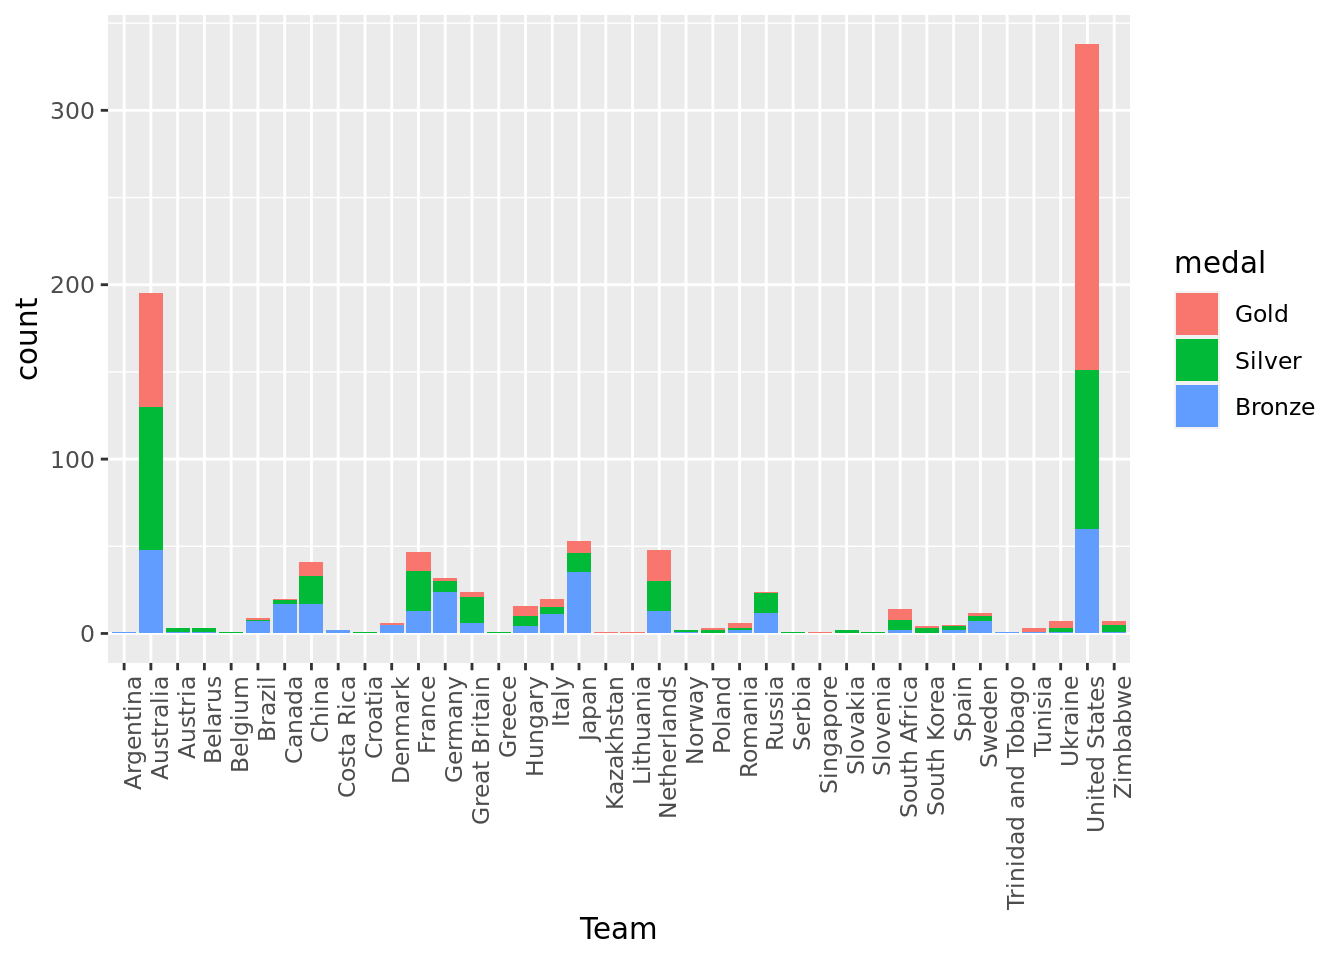
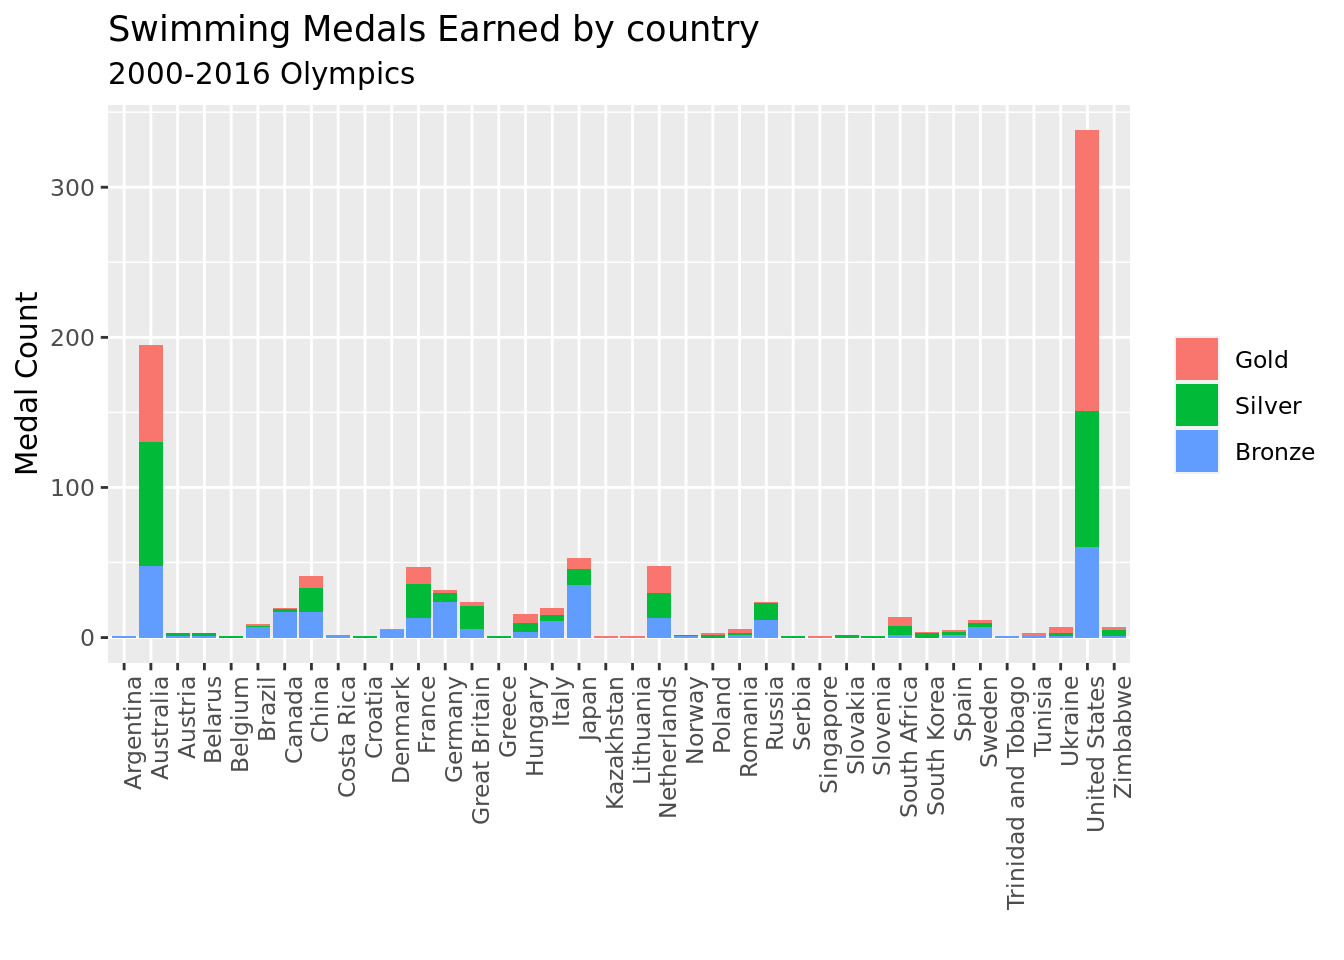
draft one done

diff --git a/docs/report.html b/docs/report.html
@@ -196,7 +196,7 @@ code span.wa { color: #60a0b0; font-weight: bold; font-style: italic; } /* Warni
 
 <section id="introduction" class="level1">
 <h1>Introduction</h1>
-<p>Throughout our project, we want to explore the correlation between athletes’ traits and performance in swimming. We aim to define which traits—particularly nationality, sex, weight, and height—influence athletes’ performance. We seek to answer the question: which trait ultimately affects Olympic swimmers the most? This question involves categorical variables such as event, country, sex, and medal, as well as quantitative variables such as height and weight. We hypothesize that height and nationality will impact Olympic swimmers the most.</p>
+<p>Throughout our project, we want to explore the correlation between Olympic athletes’ traits and performance in swimming. We aim to define which traits—particularly nationality, sex, weight, and height—influence athletes’ performance. We seek to answer the question: which trait ultimately affects Olympic swimmers the most? This question involves categorical variables such as event, country, sex, and medal, as well as quantitative variables such as height and weight. We hypothesize that height and nationality will impact Olympic swimmers the most.</p>
 </section>
 <section id="research-question-data" class="level1">
 <h1>Research question &amp; Data</h1>
@@ -232,7 +232,7 @@ code span.wa { color: #60a0b0; font-weight: bold; font-style: italic; } /* Warni
 </section>
 <section id="methodology" class="level1">
 <h1>Methodology</h1>
-<p>The differences between swimmers are best shown through data visualization. The data was filtered to show only results from the 2000 Summer games and the years since, to make it more applicable to modern games. The relationship between national origin and medal results was shown in two ways: a first plot shows how many swimming medals of each kind had gone to each country, while the second plot shows the proportion of competitors from the top seven countries</p>
+<p>The differences between swimmers are best shown through data visualization. The data was filtered to show only results from the 2000 Summer games and the years since, to make it more applicable to modern games. The relationship between national origin and medal results was shown in two ways: a first plot shows how many swimming medals of each kind had gone to each country, while the second plot shows the proportion of competitors from the top seven countries who earned medals.</p>
 <div class="cell">
 <div class="sourceCode cell-code" id="cb2"><pre class="sourceCode r code-with-copy"><code class="sourceCode r"><span id="cb2-1"><a href="#cb2-1" aria-hidden="true" tabindex="-1"></a><span class="fu">library</span>(tidyverse)</span></code><button title="Copy to Clipboard" class="code-copy-button"><i class="bi"></i></button></pre></div>
 <div class="cell-output cell-output-stderr">
@@ -290,7 +290,10 @@ The following objects are masked from 'package:base':
 <span id="cb9-7"><a href="#cb9-7" aria-hidden="true" tabindex="-1"></a>                             <span class="st">"Silver"</span>, <span class="st">"Bronze"</span>)) <span class="sc">|&gt;</span></span>
 <span id="cb9-8"><a href="#cb9-8" aria-hidden="true" tabindex="-1"></a>  <span class="fu">ggplot</span>(<span class="fu">aes</span>(<span class="at">x =</span> Team, <span class="at">fill =</span> medal)) <span class="sc">+</span> </span>
 <span id="cb9-9"><a href="#cb9-9" aria-hidden="true" tabindex="-1"></a>    <span class="fu">geom_bar</span>() <span class="sc">+</span></span>
-<span id="cb9-10"><a href="#cb9-10" aria-hidden="true" tabindex="-1"></a>  <span class="fu">theme</span>(<span class="at">axis.text.x =</span> <span class="fu">element_text</span>(<span class="at">angle =</span> <span class="dv">90</span>, <span class="at">hjust =</span> <span class="dv">1</span>)) </span></code><button title="Copy to Clipboard" class="code-copy-button"><i class="bi"></i></button></pre></div>
+<span id="cb9-10"><a href="#cb9-10" aria-hidden="true" tabindex="-1"></a>  <span class="fu">theme</span>(<span class="at">axis.text.x =</span> <span class="fu">element_text</span>(<span class="at">angle =</span> <span class="dv">90</span>, <span class="at">hjust =</span> <span class="dv">1</span>)) <span class="sc">+</span> </span>
+<span id="cb9-11"><a href="#cb9-11" aria-hidden="true" tabindex="-1"></a>  <span class="fu">labs</span>(<span class="at">x =</span> <span class="st">""</span>, <span class="at">y =</span> <span class="st">"Medal Count"</span>, <span class="at">fill =</span> <span class="st">""</span>,</span>
+<span id="cb9-12"><a href="#cb9-12" aria-hidden="true" tabindex="-1"></a>       <span class="at">title =</span> <span class="st">"Swimming Medals Earned by country"</span>, </span>
+<span id="cb9-13"><a href="#cb9-13" aria-hidden="true" tabindex="-1"></a>       <span class="at">subtitle =</span> <span class="st">"2000-2016 Olympics"</span>)</span></code><button title="Copy to Clipboard" class="code-copy-button"><i class="bi"></i></button></pre></div>
 <div class="cell-output-display">
 <p><img src="report_files/figure-html/country_comparisons-1.png" class="img-fluid" width="672"></p>
 </div>
@@ -301,12 +304,16 @@ The following objects are masked from 'package:base':
 <span id="cb10-5"><a href="#cb10-5" aria-hidden="true" tabindex="-1"></a>                   <span class="st">"Germany"</span>, <span class="st">"Japan"</span>, <span class="st">"Netherlands"</span>,</span>
 <span id="cb10-6"><a href="#cb10-6" aria-hidden="true" tabindex="-1"></a>                   <span class="st">"United States"</span>)) <span class="sc">|&gt;</span></span>
 <span id="cb10-7"><a href="#cb10-7" aria-hidden="true" tabindex="-1"></a>  <span class="fu">mutate</span>(<span class="at">medal =</span> <span class="fu">as.factor</span>(Medal), </span>
-<span id="cb10-8"><a href="#cb10-8" aria-hidden="true" tabindex="-1"></a>         <span class="at">medal =</span> <span class="fu">if_else</span>(<span class="fu">str_detect</span>(medal, <span class="st">"NA"</span>), <span class="st">"No Medal"</span>, <span class="st">"olympics_new"</span>),</span>
-<span id="cb10-9"><a href="#cb10-9" aria-hidden="true" tabindex="-1"></a>         <span class="at">medal =</span> <span class="fu">fct_relevel</span>(Medal, <span class="st">"Gold"</span>, <span class="st">"Silver"</span>, <span class="st">"Bronze"</span>, <span class="st">"No Medal"</span>)) <span class="sc">|&gt;</span></span>
+<span id="cb10-8"><a href="#cb10-8" aria-hidden="true" tabindex="-1"></a>         <span class="at">medal =</span> <span class="fu">fct_relevel</span>(Medal, <span class="st">"Gold"</span>, <span class="st">"Silver"</span>,</span>
+<span id="cb10-9"><a href="#cb10-9" aria-hidden="true" tabindex="-1"></a>                             <span class="st">"Bronze"</span>, <span class="st">"No Medal"</span>)) <span class="sc">|&gt;</span></span>
 <span id="cb10-10"><a href="#cb10-10" aria-hidden="true" tabindex="-1"></a>  <span class="fu">ggplot</span>(<span class="fu">aes</span>(<span class="at">x =</span> Team, <span class="at">fill =</span> medal)) <span class="sc">+</span> </span>
 <span id="cb10-11"><a href="#cb10-11" aria-hidden="true" tabindex="-1"></a>    <span class="fu">geom_bar</span>(<span class="at">position =</span> <span class="st">"fill"</span>) <span class="sc">+</span></span>
 <span id="cb10-12"><a href="#cb10-12" aria-hidden="true" tabindex="-1"></a>  <span class="fu">theme</span>(<span class="at">axis.text.x =</span> <span class="fu">element_text</span>(<span class="at">angle =</span> <span class="dv">90</span>, <span class="at">hjust =</span> <span class="dv">1</span>)) <span class="sc">+</span></span>
-<span id="cb10-13"><a href="#cb10-13" aria-hidden="true" tabindex="-1"></a>  <span class="fu">facet_wrap</span>(<span class="sc">~</span>Sex) </span></code><button title="Copy to Clipboard" class="code-copy-button"><i class="bi"></i></button></pre></div>
+<span id="cb10-13"><a href="#cb10-13" aria-hidden="true" tabindex="-1"></a>  <span class="fu">facet_wrap</span>(<span class="sc">~</span>Sex) <span class="sc">+</span> </span>
+<span id="cb10-14"><a href="#cb10-14" aria-hidden="true" tabindex="-1"></a>  <span class="fu">labs</span>(<span class="at">y =</span> <span class="st">"Fraction of Athletes"</span>,</span>
+<span id="cb10-15"><a href="#cb10-15" aria-hidden="true" tabindex="-1"></a>       <span class="at">x =</span> <span class="st">""</span>, <span class="at">fill =</span> <span class="st">""</span>,</span>
+<span id="cb10-16"><a href="#cb10-16" aria-hidden="true" tabindex="-1"></a>       <span class="at">title =</span> <span class="st">"Fraction of Swimmers who Medaled in 2000-2016"</span>,</span>
+<span id="cb10-17"><a href="#cb10-17" aria-hidden="true" tabindex="-1"></a>       <span class="at">subtitle =</span> <span class="st">"by Country and Sex"</span>)</span></code><button title="Copy to Clipboard" class="code-copy-button"><i class="bi"></i></button></pre></div>
 <div class="cell-output cell-output-stderr">
 <pre><code>Warning in Team == c("Australia", "China", "France", "Germany", "Japan", :
 longer object length is not a multiple of shorter object length</code></pre>
@@ -318,6 +325,8 @@ longer object length is not a multiple of shorter object length</code></pre>
 <p><img src="report_files/figure-html/country_comparisons-2.png" class="img-fluid" width="672"></p>
 </div>
 </div>
+<p>These visualizations show a very strong relationship between national origin and Olympic swimming performance. Australian and American swimmers had the majority of all medal types, and they also had the highest percentages of winners. National origin is thus a strong predictive factor for swimming performance.</p>
+<p>Next, parallel boxplots were used to compare the ranges for athlete’s physical traits and age, comparing different medalists to non-medalists.</p>
 <div class="cell">
 <div class="sourceCode cell-code" id="cb13"><pre class="sourceCode r code-with-copy"><code class="sourceCode r"><span id="cb13-1"><a href="#cb13-1" aria-hidden="true" tabindex="-1"></a>olympics_new <span class="sc">|&gt;</span> </span>
 <span id="cb13-2"><a href="#cb13-2" aria-hidden="true" tabindex="-1"></a>  <span class="fu">filter</span>(Sport <span class="sc">==</span> <span class="st">"Swimming"</span>, Year <span class="sc">&gt;</span> <span class="dv">1999</span>) <span class="sc">|&gt;</span></span>
@@ -326,14 +335,14 @@ longer object length is not a multiple of shorter object length</code></pre>
 <span id="cb13-5"><a href="#cb13-5" aria-hidden="true" tabindex="-1"></a>    <span class="fu">geom_boxplot</span>() <span class="sc">+</span> </span>
 <span id="cb13-6"><a href="#cb13-6" aria-hidden="true" tabindex="-1"></a>  <span class="fu">facet_wrap</span>(<span class="sc">~</span>Sex) <span class="sc">+</span> </span>
 <span id="cb13-7"><a href="#cb13-7" aria-hidden="true" tabindex="-1"></a>  <span class="fu">labs</span>(<span class="at">title =</span> <span class="st">"BMI vs. Medal Earned"</span>, </span>
-<span id="cb13-8"><a href="#cb13-8" aria-hidden="true" tabindex="-1"></a>       <span class="at">subtitle =</span> <span class="st">"for Women and Men"</span>,</span>
+<span id="cb13-8"><a href="#cb13-8" aria-hidden="true" tabindex="-1"></a>       <span class="at">subtitle =</span> <span class="st">"for Women and Men, 2000-2016 Olympics"</span>,</span>
 <span id="cb13-9"><a href="#cb13-9" aria-hidden="true" tabindex="-1"></a>       <span class="at">x =</span> <span class="st">"BMI of Athlete"</span>, </span>
 <span id="cb13-10"><a href="#cb13-10" aria-hidden="true" tabindex="-1"></a>       <span class="at">y =</span> <span class="st">"Type of Medal Earned"</span>)</span></code><button title="Copy to Clipboard" class="code-copy-button"><i class="bi"></i></button></pre></div>
 <div class="cell-output cell-output-stderr">
 <pre><code>Warning: Removed 117 rows containing non-finite values (`stat_boxplot()`).</code></pre>
 </div>
 <div class="cell-output-display">
-<p><img src="report_files/figure-html/unnamed-chunk-1-1.png" class="img-fluid" width="672"></p>
+<p><img src="report_files/figure-html/athlete_stats-1.png" class="img-fluid" width="672"></p>
 </div>
 <div class="sourceCode cell-code" id="cb15"><pre class="sourceCode r code-with-copy"><code class="sourceCode r"><span id="cb15-1"><a href="#cb15-1" aria-hidden="true" tabindex="-1"></a>olympics_new <span class="sc">|&gt;</span> </span>
 <span id="cb15-2"><a href="#cb15-2" aria-hidden="true" tabindex="-1"></a>  <span class="fu">filter</span>(Sport <span class="sc">==</span> <span class="st">"Swimming"</span>, Year <span class="sc">&gt;</span> <span class="dv">1999</span>) <span class="sc">|&gt;</span></span>
@@ -342,14 +351,14 @@ longer object length is not a multiple of shorter object length</code></pre>
 <span id="cb15-5"><a href="#cb15-5" aria-hidden="true" tabindex="-1"></a>    <span class="fu">geom_boxplot</span>() <span class="sc">+</span> </span>
 <span id="cb15-6"><a href="#cb15-6" aria-hidden="true" tabindex="-1"></a>  <span class="fu">facet_wrap</span>(<span class="sc">~</span>Sex) <span class="sc">+</span> </span>
 <span id="cb15-7"><a href="#cb15-7" aria-hidden="true" tabindex="-1"></a>  <span class="fu">labs</span>(<span class="at">title =</span> <span class="st">"Height vs. Medal Earned"</span>, </span>
-<span id="cb15-8"><a href="#cb15-8" aria-hidden="true" tabindex="-1"></a>       <span class="at">subtitle =</span> <span class="st">"for Women and Men"</span>,</span>
+<span id="cb15-8"><a href="#cb15-8" aria-hidden="true" tabindex="-1"></a>       <span class="at">subtitle =</span> <span class="st">"for Women and Men, 2000-2016 Olympics"</span>,</span>
 <span id="cb15-9"><a href="#cb15-9" aria-hidden="true" tabindex="-1"></a>       <span class="at">x =</span> <span class="st">"Height of Athlete (cm)"</span>, </span>
 <span id="cb15-10"><a href="#cb15-10" aria-hidden="true" tabindex="-1"></a>       <span class="at">y =</span> <span class="st">"Type of Medal Earned"</span>)</span></code><button title="Copy to Clipboard" class="code-copy-button"><i class="bi"></i></button></pre></div>
 <div class="cell-output cell-output-stderr">
 <pre><code>Warning: Removed 101 rows containing non-finite values (`stat_boxplot()`).</code></pre>
 </div>
 <div class="cell-output-display">
-<p><img src="report_files/figure-html/unnamed-chunk-1-2.png" class="img-fluid" width="672"></p>
+<p><img src="report_files/figure-html/athlete_stats-2.png" class="img-fluid" width="672"></p>
 </div>
 <div class="sourceCode cell-code" id="cb17"><pre class="sourceCode r code-with-copy"><code class="sourceCode r"><span id="cb17-1"><a href="#cb17-1" aria-hidden="true" tabindex="-1"></a>olympics_new <span class="sc">|&gt;</span> </span>
 <span id="cb17-2"><a href="#cb17-2" aria-hidden="true" tabindex="-1"></a>  <span class="fu">filter</span>(Sport <span class="sc">==</span> <span class="st">"Swimming"</span>, Year <span class="sc">&gt;</span> <span class="dv">1999</span>) <span class="sc">|&gt;</span></span>
@@ -358,14 +367,14 @@ longer object length is not a multiple of shorter object length</code></pre>
 <span id="cb17-5"><a href="#cb17-5" aria-hidden="true" tabindex="-1"></a>    <span class="fu">geom_boxplot</span>() <span class="sc">+</span> </span>
 <span id="cb17-6"><a href="#cb17-6" aria-hidden="true" tabindex="-1"></a>  <span class="fu">facet_wrap</span>(<span class="sc">~</span>Sex) <span class="sc">+</span> </span>
 <span id="cb17-7"><a href="#cb17-7" aria-hidden="true" tabindex="-1"></a>  <span class="fu">labs</span>(<span class="at">title =</span> <span class="st">"Weight vs. Medal Earned"</span>, </span>
-<span id="cb17-8"><a href="#cb17-8" aria-hidden="true" tabindex="-1"></a>       <span class="at">subtitle =</span> <span class="st">"for Women and Men"</span>,</span>
+<span id="cb17-8"><a href="#cb17-8" aria-hidden="true" tabindex="-1"></a>       <span class="at">subtitle =</span> <span class="st">"for Women and Men, 2000-2016 Olympics"</span>,</span>
 <span id="cb17-9"><a href="#cb17-9" aria-hidden="true" tabindex="-1"></a>       <span class="at">x =</span> <span class="st">"Weight of Athlete (Kg)"</span>, </span>
 <span id="cb17-10"><a href="#cb17-10" aria-hidden="true" tabindex="-1"></a>       <span class="at">y =</span> <span class="st">"Type of Medal Earned"</span>)</span></code><button title="Copy to Clipboard" class="code-copy-button"><i class="bi"></i></button></pre></div>
 <div class="cell-output cell-output-stderr">
 <pre><code>Warning: Removed 112 rows containing non-finite values (`stat_boxplot()`).</code></pre>
 </div>
 <div class="cell-output-display">
-<p><img src="report_files/figure-html/unnamed-chunk-1-3.png" class="img-fluid" width="672"></p>
+<p><img src="report_files/figure-html/athlete_stats-3.png" class="img-fluid" width="672"></p>
 </div>
 <div class="sourceCode cell-code" id="cb19"><pre class="sourceCode r code-with-copy"><code class="sourceCode r"><span id="cb19-1"><a href="#cb19-1" aria-hidden="true" tabindex="-1"></a>olympics_new <span class="sc">|&gt;</span> </span>
 <span id="cb19-2"><a href="#cb19-2" aria-hidden="true" tabindex="-1"></a>  <span class="fu">filter</span>(Sport <span class="sc">==</span> <span class="st">"Swimming"</span>, Year <span class="sc">&gt;</span> <span class="dv">1999</span>) <span class="sc">|&gt;</span></span>
@@ -373,17 +382,20 @@ longer object length is not a multiple of shorter object length</code></pre>
 <span id="cb19-4"><a href="#cb19-4" aria-hidden="true" tabindex="-1"></a>  <span class="fu">ggplot</span>(<span class="fu">aes</span>(<span class="at">x =</span> Age, <span class="at">y =</span> medal)) <span class="sc">+</span> </span>
 <span id="cb19-5"><a href="#cb19-5" aria-hidden="true" tabindex="-1"></a>    <span class="fu">geom_boxplot</span>() <span class="sc">+</span> </span>
 <span id="cb19-6"><a href="#cb19-6" aria-hidden="true" tabindex="-1"></a>  <span class="fu">facet_wrap</span>(<span class="sc">~</span>Sex) <span class="sc">+</span> </span>
-<span id="cb19-7"><a href="#cb19-7" aria-hidden="true" tabindex="-1"></a>  <span class="fu">labs</span>(<span class="at">title =</span> <span class="st">"Age vs. Medal Earned"</span>, </span>
+<span id="cb19-7"><a href="#cb19-7" aria-hidden="true" tabindex="-1"></a>  <span class="fu">labs</span>(<span class="at">title =</span> <span class="st">"Age vs. Medal Earned, 2000-2016 Olympics"</span>, </span>
 <span id="cb19-8"><a href="#cb19-8" aria-hidden="true" tabindex="-1"></a>       <span class="at">subtitle =</span> <span class="st">"for Women and Men"</span>,</span>
 <span id="cb19-9"><a href="#cb19-9" aria-hidden="true" tabindex="-1"></a>       <span class="at">x =</span> <span class="st">"Age of Athlete"</span>, </span>
 <span id="cb19-10"><a href="#cb19-10" aria-hidden="true" tabindex="-1"></a>       <span class="at">y =</span> <span class="st">"Type of Medal Earned"</span>)</span></code><button title="Copy to Clipboard" class="code-copy-button"><i class="bi"></i></button></pre></div>
 <div class="cell-output-display">
-<p><img src="report_files/figure-html/unnamed-chunk-1-4.png" class="img-fluid" width="672"></p>
+<p><img src="report_files/figure-html/athlete_stats-4.png" class="img-fluid" width="672"></p>
 </div>
 </div>
+<p>The typical BMI, height, and weight for swimmers increased as their medal rank did (so the typical gold winner was slightly taller and heavier, and had a higher BMI than the other medalists as well as non-medalists). These results are conserved across sex in each category. The age of the swimmer had no meaningful correlation with results; there are slight differences between medal categories but no large effect or clear trend.</p>
 </section>
 <section id="results" class="level1">
 <h1>Results</h1>
+<p>All of the tested characteristics except for age showed a significant effect on medal results, with a clear trend between placement and each characteristic. High-placing swimmers tended to be taller, heavier, and of a higher BMI than low-placing swimmers. The effect of the physical characteristics, however, was far outshadowed by the effect of national origin. The typical ranges for gold-medal swimmers had significant overlap with those of non-medalists in most comparisons, while dominant countries such as the United States and Australia claimed the vast majority of medals and had a far greater fraction of winners as well.</p>
+<p>These results support the idea that national support and the training regimen for Olympic swimmers is far more important than the specifics of their physical traits. Becuase the medal data favored certain countries, it could be proposed that the main factors that support an Olympian’s success are country-specific factors such as the popularity of their sport or the availability of funding for them to train. While physical characteristics are still important (the data showed that only people with a narrow range of body measurements were even in the competition), national support and other factors are critical for high-level success.</p>
 
 
 </section>
